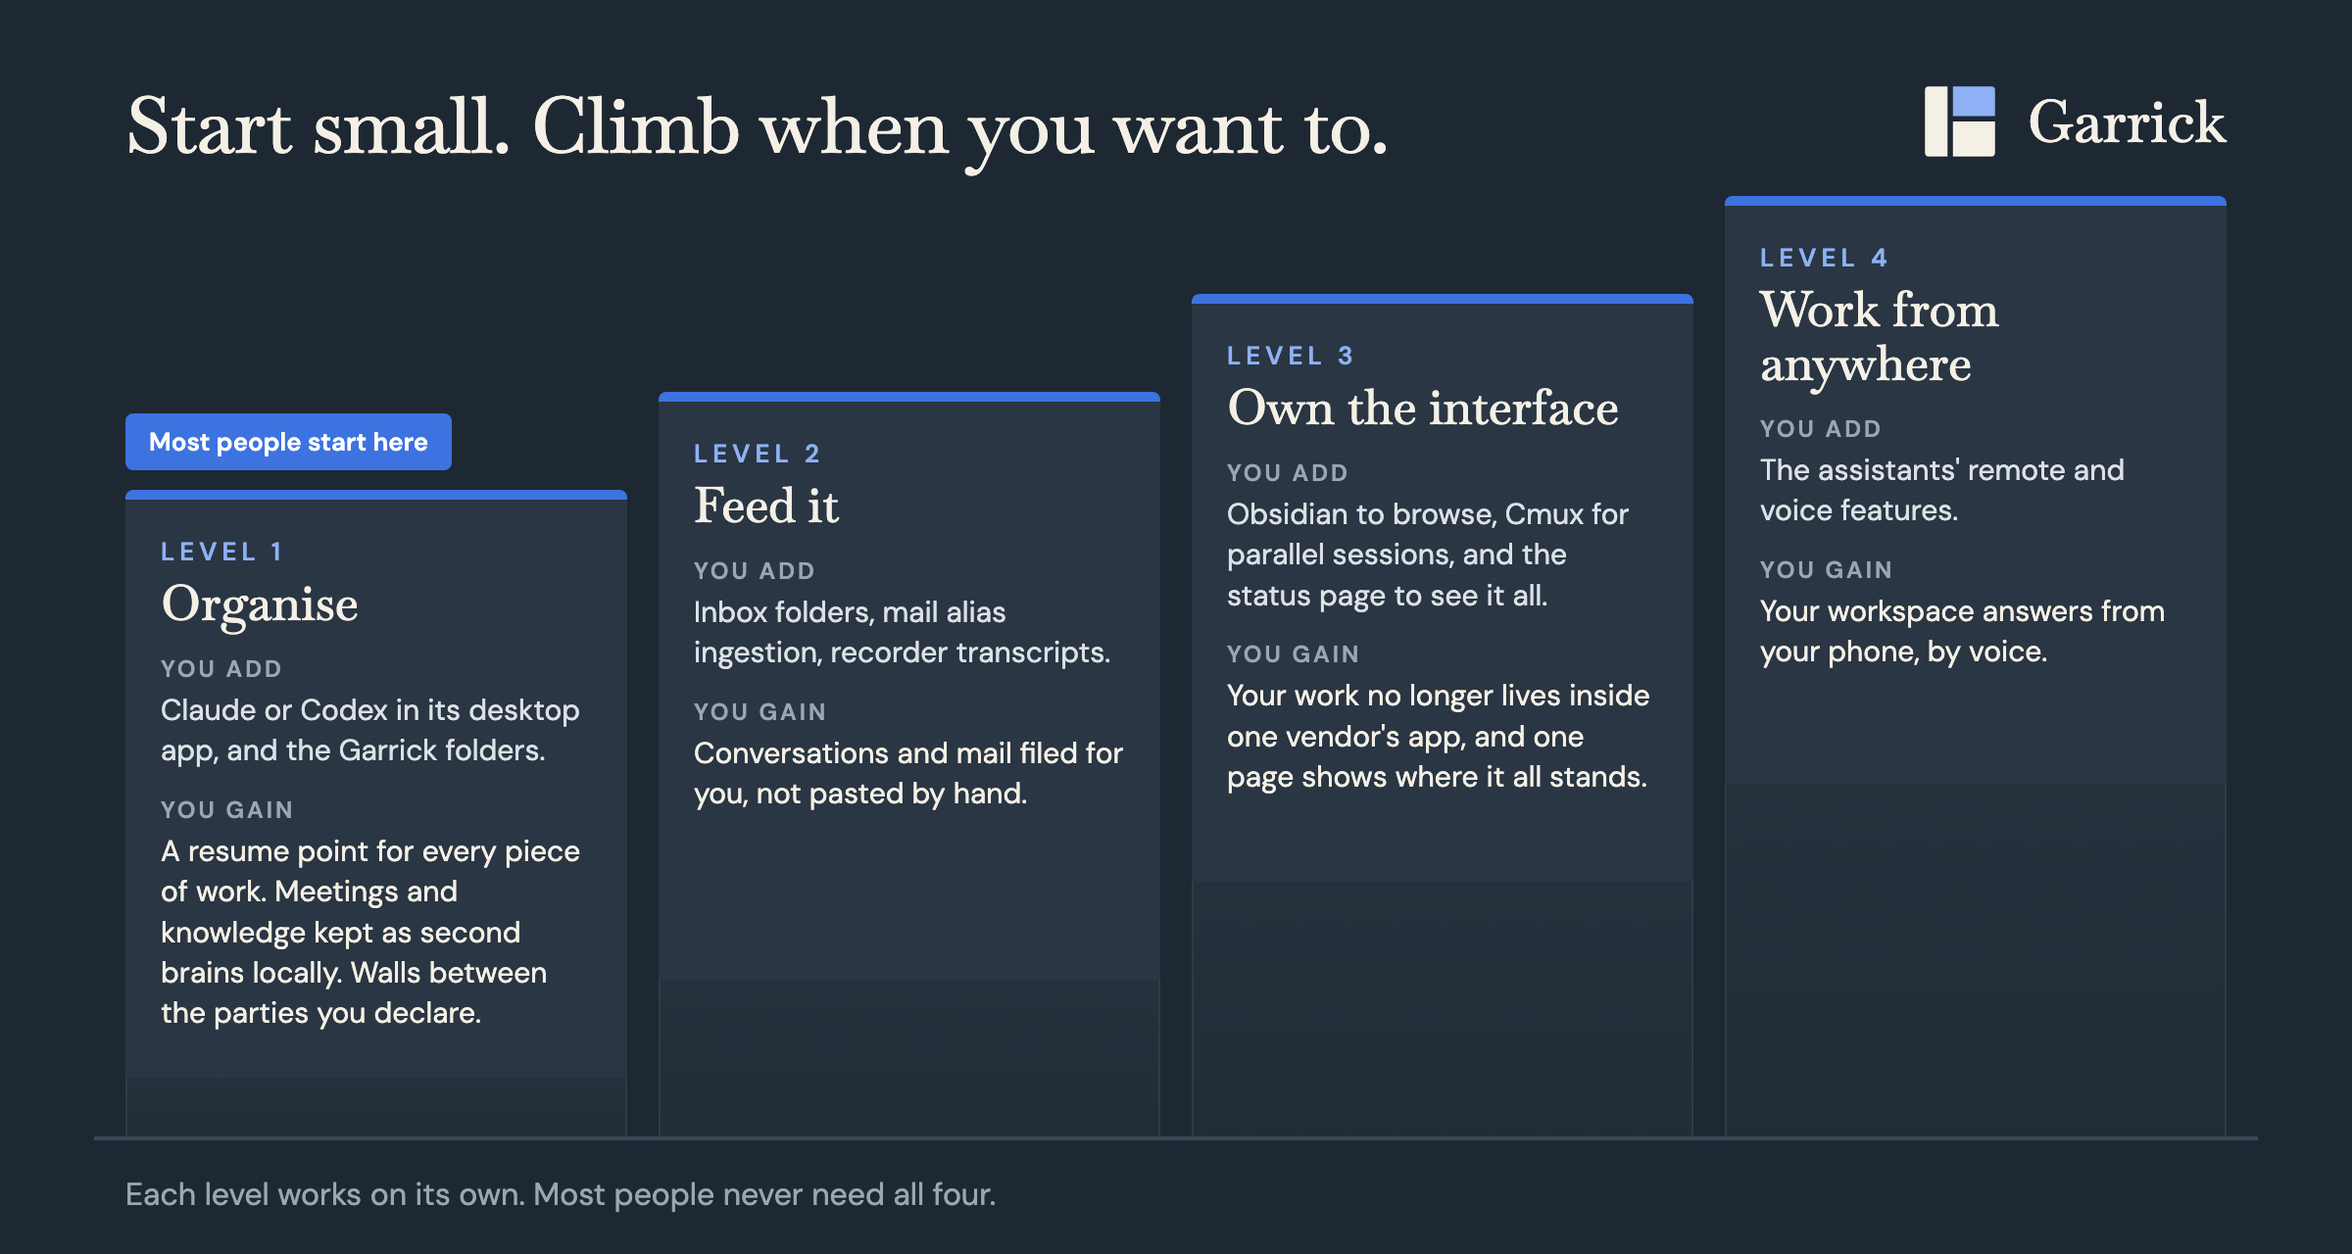
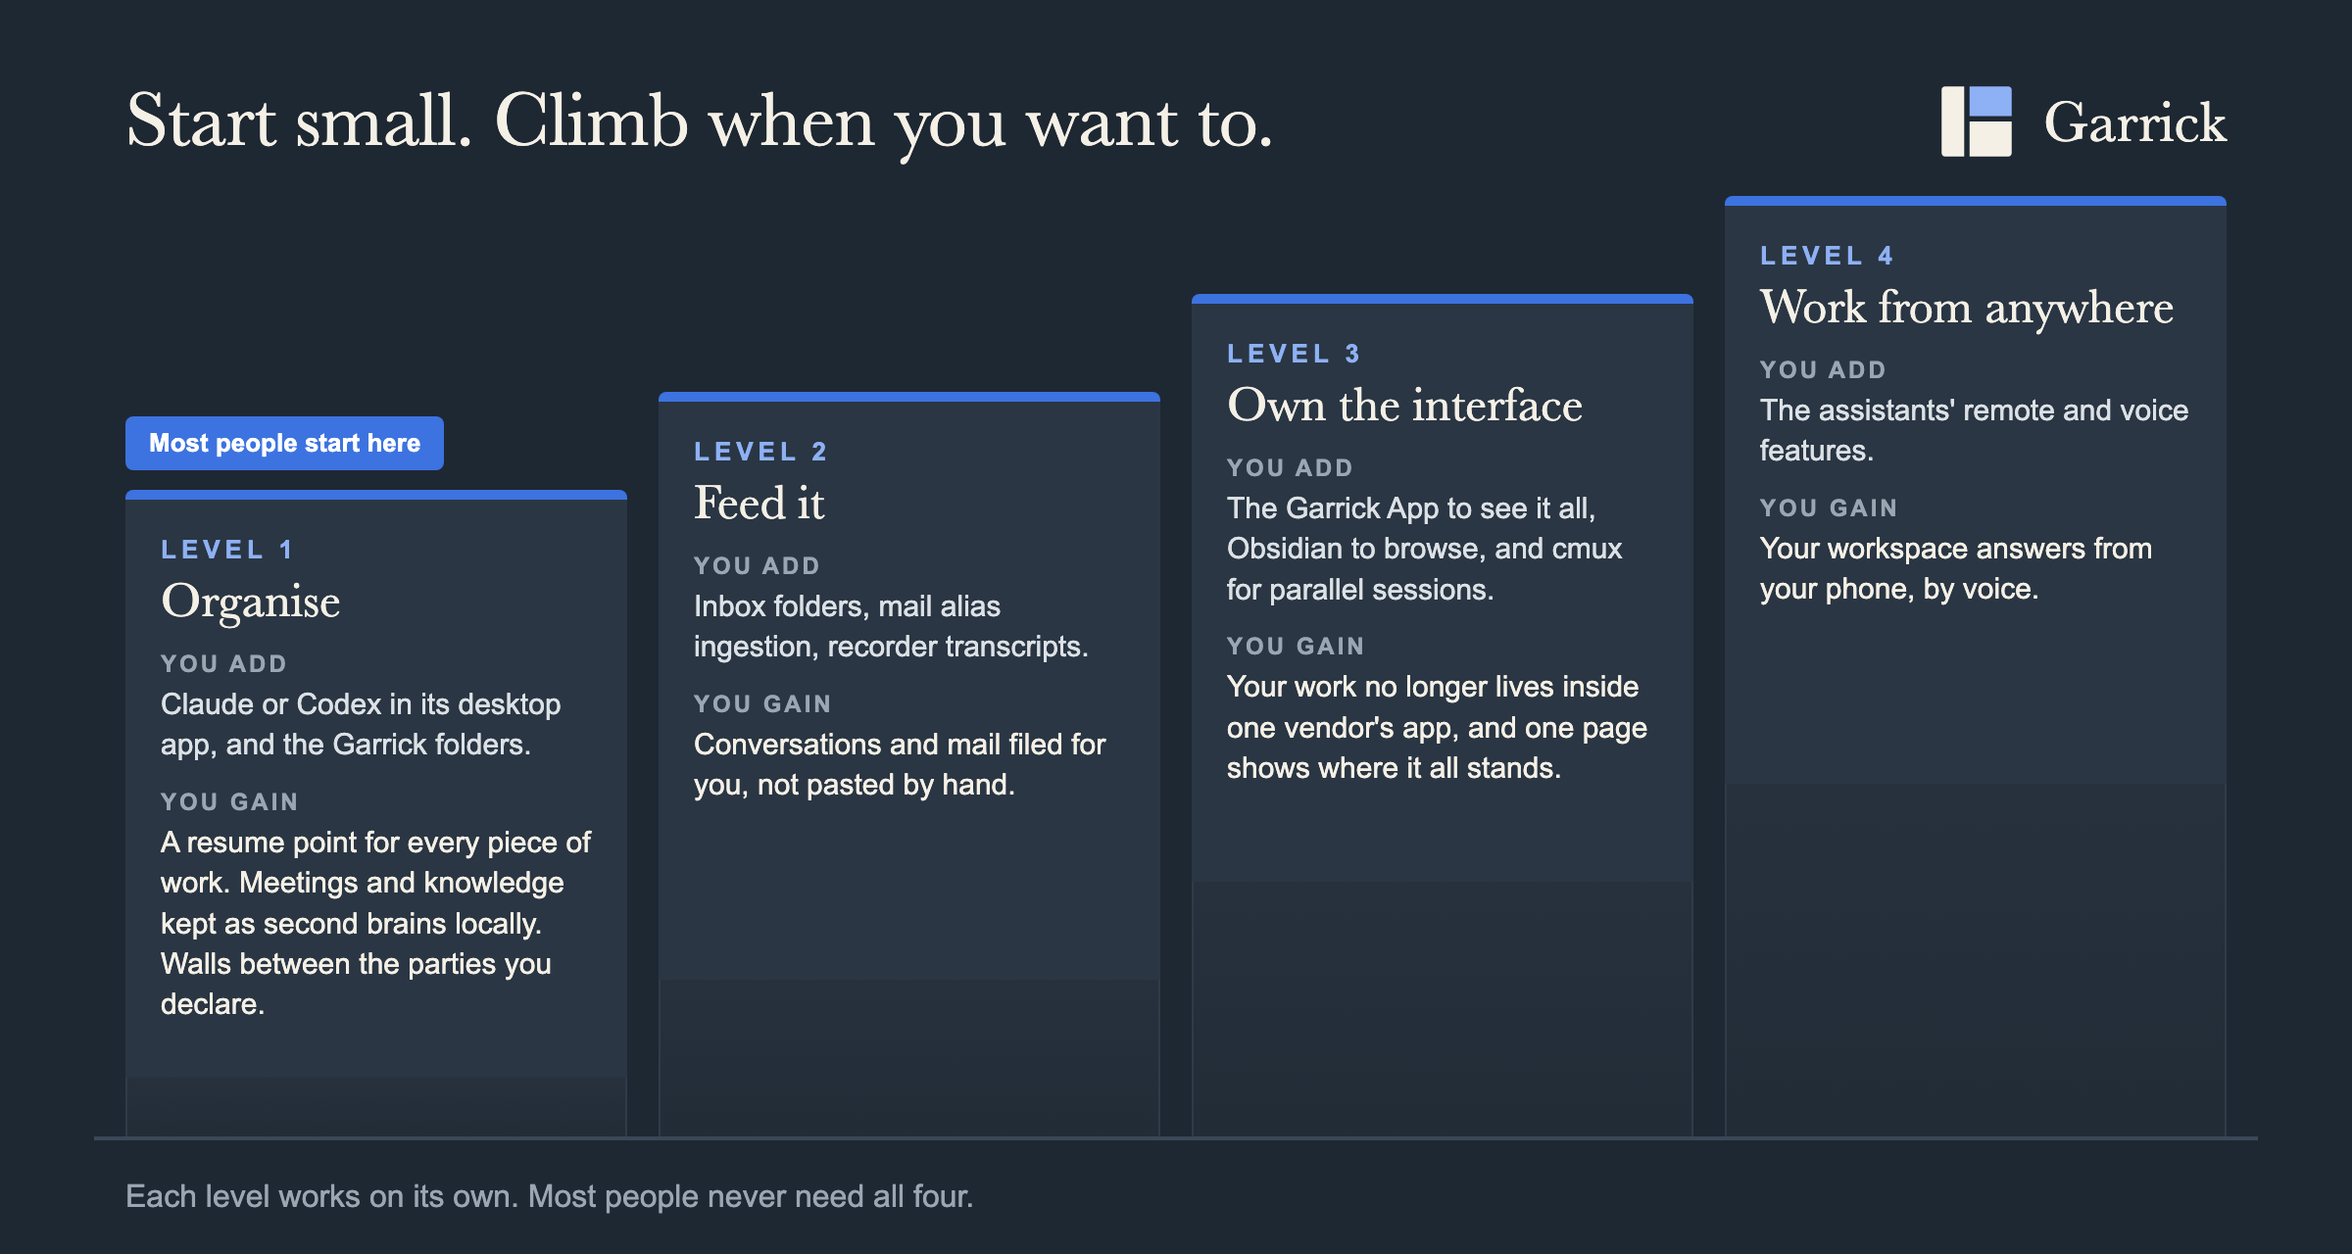
Deck and ladder: the App as it is now, and Resume for Continue
The deck's home slide shows Waiting on you now, Your work with Resume,
and Ask. The deck and the README say Resume, the button's name since
0.56.0. Level 3 of the adoption ladder names the Garrick App.

diff --git a/presentation/index.html b/presentation/index.html
@@ -559,16 +559,16 @@ body.editing .editable {
     <!-- ============================================================
          6. THE RETURN: load-bearing slide
          ============================================================ -->
-    <section class="slide slide--cream" data-title="The next day, Continue">
+    <section class="slide slide--cream" data-title="The next day, Resume">
       <p class="kicker reveal">The return</p>
-      <h2 class="slide-title reveal editable" data-edit-id="return-title">The next day, Continue</h2>
+      <h2 class="slide-title reveal editable" data-edit-id="return-title">The next day, Resume</h2>
       <div class="row reveal" style="flex:1; gap:36px; align-items:stretch; min-height:0;">
         <div class="card" style="flex:0.8; justify-content:center;">
           <p class="card-eyebrow">Your work</p>
           <h3>Kestle chair launch</h3>
           <p>Next: finish the launch email's pricing section and dealer offer</p>
           <p style="font-size:23px; color:var(--ink-faint);">Moved yesterday · 1 owed, due Friday</p>
-          <span class="pill">Continue</span>
+          <span class="pill">Resume</span>
         </div>
         <span class="arrow" aria-hidden="true">&rarr;</span>
         <div class="card card--navy" style="flex:1.2; justify-content:center; gap:22px;">
@@ -578,7 +578,7 @@ body.editing .editable {
         </div>
       </div>
       <p class="slide-body reveal editable" data-edit-id="return-body">Nothing retold. You start on the next action.</p>
-      <aside class="notes">This is the slide the deck is built around. Yesterday Robin stopped mid-email. Today one click on Continue opens Claude's desktop app on that piece of work, with the answer already on screen, and Robin starts writing the pricing section. The reply is drawn from the example's record; it is an illustration, not a captured run. Continue needs the Claude Code command-line tool installed and signed in. In a browser it copies the words to say instead.</aside>
+      <aside class="notes">This is the slide the deck is built around. Yesterday Robin stopped mid-email. Today one click on Resume opens Claude's desktop app on that piece of work, with the answer already on screen, and Robin starts writing the pricing section. The reply is drawn from the example's record; it is an illustration, not a captured run. Resume opens Claude this way when Claude is the app chosen in Settings, and needs the Claude Code command-line tool installed and signed in. In a browser it copies the words to say instead.</aside>
     </section>
 
     <!-- ============================================================
@@ -588,12 +588,12 @@ body.editing .editable {
       <p class="kicker reveal">The home</p>
       <h2 class="slide-title reveal editable" data-edit-id="home-title">All your work on one page</h2>
       <div class="grid-3 reveal" style="flex:1;">
-        <div class="card"><p class="card-eyebrow">Your work</p><h3>Most recent first</h3><p>Each piece with its next action and what you owe. One waiting on someone says so: Waiting on Nadia Fenn.</p></div>
-        <div class="card"><p class="card-eyebrow">Ask something</p><h3>One box</h3><p>A question about any of your work, or something new to start. Claude opens on your words, already answered.</p></div>
-        <div class="card"><p class="card-eyebrow">Needs you</p><h3>Only your questions</h3><p>What Garrick is waiting on you to answer, one click each. Robin's: which delivery date was promised to Brannock Hotels.</p></div>
+        <div class="card"><p class="card-eyebrow">Waiting on you now</p><h3>What needs you, first</h3><p>One sentence says how many things wait: a late action, mail in the inbox, a session stopped on a question. Each row's button does the job.</p></div>
+        <div class="card"><p class="card-eyebrow">Your work</p><h3>Most recent first</h3><p>Each piece with its next step and its state. One waiting on someone says so: Waiting on Nadia Fenn. Resume opens it where you work.</p></div>
+        <div class="card"><p class="card-eyebrow">Ask</p><h3>One box, from any app</h3><p>Ask about any of your work, or ask for work to be done. A send, a share or a delete waits for your yes.</p></div>
       </div>
-      <p class="slide-body reveal" style="font-size:27px;">The home is part of the Garrick app, an optional install on your Mac. Without it, ask Claude "where am I on the launch?" and the answer comes from the same place.</p>
-      <aside class="notes">The home lists every live piece of work, five at a time with the rest under more. A row whose next step is yours has a Continue button; a row waiting on someone has none. The Garrick app is an extra, set up by hand today; say so plainly. Everything on the home is read from the same one place per piece of work.</aside>
+      <p class="slide-body reveal" style="font-size:27px;">Every install has the page, and setup offers its Mac app. Without either, ask Claude "where am I on the launch?" and the answer comes from the same place.</p>
+      <aside class="notes">The Overview opens on Waiting on you now: one sentence with the count, then a row for each thing, and the row's button does the work, such as ticking a late action or processing the inbox. Your work lists the ten most recently touched pieces of work, with Show all for the rest; Resume opens a piece where you chose to work, and its arrow lists the others. Ask opens with a hotkey from any app; at the Act setting it does what git can undo and holds a send, share or delete for a yes. Everything on the page is read from the same one place per piece of work.</aside>
     </section>
 
     <!-- ============================================================
@@ -788,7 +788,7 @@ body.editing .editable {
       <p class="kicker reveal">Why the return can be trusted</p>
       <h2 class="slide-title reveal editable" data-edit-id="two-title">Two things Garrick does</h2>
       <div class="grid-2 reveal">
-        <div class="card"><p class="card-eyebrow">For you</p><h3>Convenience</h3><p>Leave any piece of work and come back to its next action. See all of your work on one page, and open any of it with Continue.</p></div>
+        <div class="card"><p class="card-eyebrow">For you</p><h3>Convenience</h3><p>Leave any piece of work and come back to its next action. See all of your work on one page, and open any of it with Resume.</p></div>
         <div class="card"><p class="card-eyebrow">With your context</p><h3>The context life cycle</h3><p>It takes context in, keeps it true, uses it within walls and lets it fade, so the place you come back to is still right.</p></div>
       </div>
       <p class="slide-body reveal editable" data-edit-id="two-body" style="color:var(--blue-dark); font-weight:600;">They meet in one place per piece of work: leaving writes it, coming back reads it.</p>
@@ -825,7 +825,7 @@ body.editing .editable {
         <div style="flex:1.15; display:flex; flex-direction:column; gap:26px;">
           <p class="slide-body">Your folders stay as they are. Garrick reads them and writes nothing there unless you ask it to move the files in.</p>
           <p class="slide-body">Its own record is plain Markdown in folders on your Mac, and updates keep your edits.</p>
-          <p class="slide-body">Claude does the work underneath. Codex works too, in its app or a terminal, without the home's Continue.</p>
+          <p class="slide-body">Claude does the work underneath. Codex works too, in its app or a terminal, where Resume opens it without Claude's answer waiting.</p>
         </div>
         <div class="card" style="flex:0.85; font-family:'DM Sans', monospace; gap:6px;">
           <p class="card-eyebrow" style="font-family:var(--font-body);">Garrick's record on disk</p>
@@ -847,7 +847,7 @@ body.editing .editable {
         <div class="card"><p class="card-eyebrow">3</p><h3 style="font-size:32px;">Gone in one step</h3><p>Delete the folder. In a workspace of your own, one command puts the example away.</p></div>
       </div>
       <code class="snippet reveal" style="align-self:flex-start;">python3 examples/example-work/build.py --target ~/Garrick-example</code>
-      <aside class="notes">In a guided session, run this line live. The example builds with dates relative to today, so the launch email really was left yesterday. Continue needs the Garrick app and the Claude Code command-line tool; without them, ask Claude "where am I on the Kestle chair launch?" in the new folder.</aside>
+      <aside class="notes">In a guided session, run this line live. The example builds with dates relative to today, so the launch email really was left yesterday. Resume needs the Garrick app, and the answer waiting on screen needs the Claude Code command-line tool; without them, ask Claude "where am I on the Kestle chair launch?" in the new folder.</aside>
     </section>
 
     <!-- ============================================================
@@ -856,7 +856,7 @@ body.editing .editable {
     <section class="slide slide--navy slide--statement" data-title="Two pieces of work, one month">
       <p class="kicker reveal">Yours to try</p>
       <p class="statement reveal editable" data-edit-id="close-statement">Move two pieces of work in. Come back to them through Garrick for a month.</p>
-      <p class="statement-sub reveal editable" data-edit-id="close-sub">Leave them when you need to, and come back with Continue or "where am I", not through chat history. Garrick was built from one person's working week; a month tells you whether it fits yours.</p>
+      <p class="statement-sub reveal editable" data-edit-id="close-sub">Leave them when you need to, and come back with Resume or "where am I", not through chat history. Garrick was built from one person's working week; a month tells you whether it fits yours.</p>
       <p class="byline reveal" style="margin-top:20px;">Garrick · MIT licence · Marco Venuti</p>
       <aside class="notes">End on the ask, not a roadmap. Two pieces of work is enough to feel the return and small enough to start today. Ask people to count how often they came back through Garrick in that month.</aside>
     </section>

diff --git a/docs/assets/adoption-ladder.html b/docs/assets/adoption-ladder.html
@@ -37,7 +37,7 @@ h2{margin:4px 0 12px;font-family:'Baskervville','Libre Baskerville',Baskerville,
 </div><div class="step" style="left:608px;bottom:60px">
   
   <div class="card"><p class="lvl">Level 3</p><h2>Own the interface</h2>
-    <p class="k">You add</p><p class="v">Obsidian to browse, Cmux for parallel sessions, and the status page to see it all.</p>
+    <p class="k">You add</p><p class="v">The Garrick App to see it all, Obsidian to browse, and cmux for parallel sessions.</p>
     <p class="k">You gain</p><p class="v gain">Your work no longer lives inside one vendor&#x27;s app, and one page shows where it all stands.</p></div>
   <div class="riser" style="height:130px"></div>
 </div><div class="step" style="left:880px;bottom:60px">

diff --git a/README.md b/README.md
@@ -10,7 +10,7 @@ Garrick keeps track of where each piece of your work stands. It reads what comes
 
 An assistant is only as useful as what it knows about your work. Yours remembers your projects, but it can't tell you which piece of work is waiting on you, what comes next, or what was only in your head when you stopped. Garrick can: every piece of work has one place that says where it stands, written when you leave it and read when you come back. Say “wrap it” when someone interrupts you and “open [thread]” when you return.
 
-The [Garrick app](docs/extras/status-page.md) opens on your work, most recent first, each piece with its next action. Continue opens Claude's desktop app on that piece of work, with Claude's answer already on screen.
+The [Garrick app](docs/extras/status-page.md) opens on your work, most recent first, each piece with its next action. Resume opens Claude's desktop app on that piece of work, with Claude's answer already on screen.
 
 Behind the home, Garrick holds three things in one place: what you're working on, in your files; what was said, in a record of your meetings; and what you read, in a library of what you've studied. It files what comes in, such as mail, transcripts and documents, into the right one, and a piece of work's page shows which of its files are new, changed or missing since you last continued. It keeps the record up to date and asks before it corrects anything written there. Finished work steps aside without anything in it being lost, and old meetings and reading fade out of the way in stages, still findable.
 
@@ -20,7 +20,7 @@ When some of your work comes from people whose confidences you hold, such as two
 
 > Each zone is either **walled** or **open**. What is in a walled zone stays in that zone; what is in an open zone may go anywhere. Knowledge and System reach every zone, and a conversation that touches two walled zones is split before it is filed.
 
-Your folders stay as they are. Garrick reads them and writes nothing there unless you ask it to move the files in. Its own record is plain Markdown in folders on your Mac, and updates keep your edits. Claude does the work underneath. Codex works too, in its app or a terminal, without the home's Continue.
+Your folders stay as they are. Garrick reads them and writes nothing there unless you ask it to move the files in. Its own record is plain Markdown in folders on your Mac, and updates keep your edits. Claude does the work underneath. Codex works too, in its app or a terminal, where Resume opens it without Claude's answer waiting.
 
 https://github.com/user-attachments/assets/54996021-8e82-4c7e-b5be-fe9be6f3167e
 
@@ -28,7 +28,7 @@ https://github.com/user-attachments/assets/54996021-8e82-4c7e-b5be-fe9be6f3167e
 
 ## Start small
 
-![Start small. Climb when you want to. Level 1, Organise: Claude or Codex in its desktop app and the Garrick folders, for a resume point for every piece of work, meetings and knowledge kept locally, and walls around the zones you mark walled. Level 2, Feed it: inbox folders, mail alias ingestion and recorder transcripts, so conversations and mail are filed for you. Level 3, Own the interface: Obsidian to browse, cmux for parallel sessions and the status page to see it all, so your work no longer lives inside one vendor's app and one page shows where it all stands. Level 4, Work from anywhere: the assistants' remote and voice features, so your workspace answers from your phone. Each level works on its own.](docs/assets/adoption-ladder.png)
+![Start small. Climb when you want to. Level 1, Organise: Claude or Codex in its desktop app and the Garrick folders, for a resume point for every piece of work, meetings and knowledge kept locally, and walls around the zones you mark walled. Level 2, Feed it: inbox folders, mail alias ingestion and recorder transcripts, so conversations and mail are filed for you. Level 3, Own the interface: the Garrick App to see it all, Obsidian to browse and cmux for parallel sessions, so your work no longer lives inside one vendor's app and one page shows where it all stands. Level 4, Work from anywhere: the assistants' remote and voice features, so your workspace answers from your phone. Each level works on its own.](docs/assets/adoption-ladder.png)
 
 1. **Organise:** [first steps](docs/first-steps.md), then [your first useful session](docs/first-session.md).
 2. **Feed it:** [ways in](docs/extras/ways-in.md) for mail and files, and [a meeting recorder](docs/extras/meeting-recorder.md).

diff --git a/CHANGELOG.md b/CHANGELOG.md
@@ -7,6 +7,7 @@ What changed in each release. Dates are when the release was tagged. The format 
 ### Changed
 
 - The Garrick App page's pictures are new, taken on 0.76.0 and the demo workspace. The Overview with *Waiting on you now* and *Your work*, and the Threads card with a thread's card open, both as the Mac app draws them, and Explore's graph with a thread selected replace the 0.10.0 pictures, which showed the look before 0.67.0.
+- The deck's home slide shows the App as it is now: *Waiting on you now*, *Your work* with *Resume*, and *Ask*. The deck and the README say *Resume*, the button's name since 0.56.0, where they said *Continue*. Level 3 of the adoption ladder names the Garrick App instead of the status page.
 
 ## [0.76.0] - 2026-11-22
 
